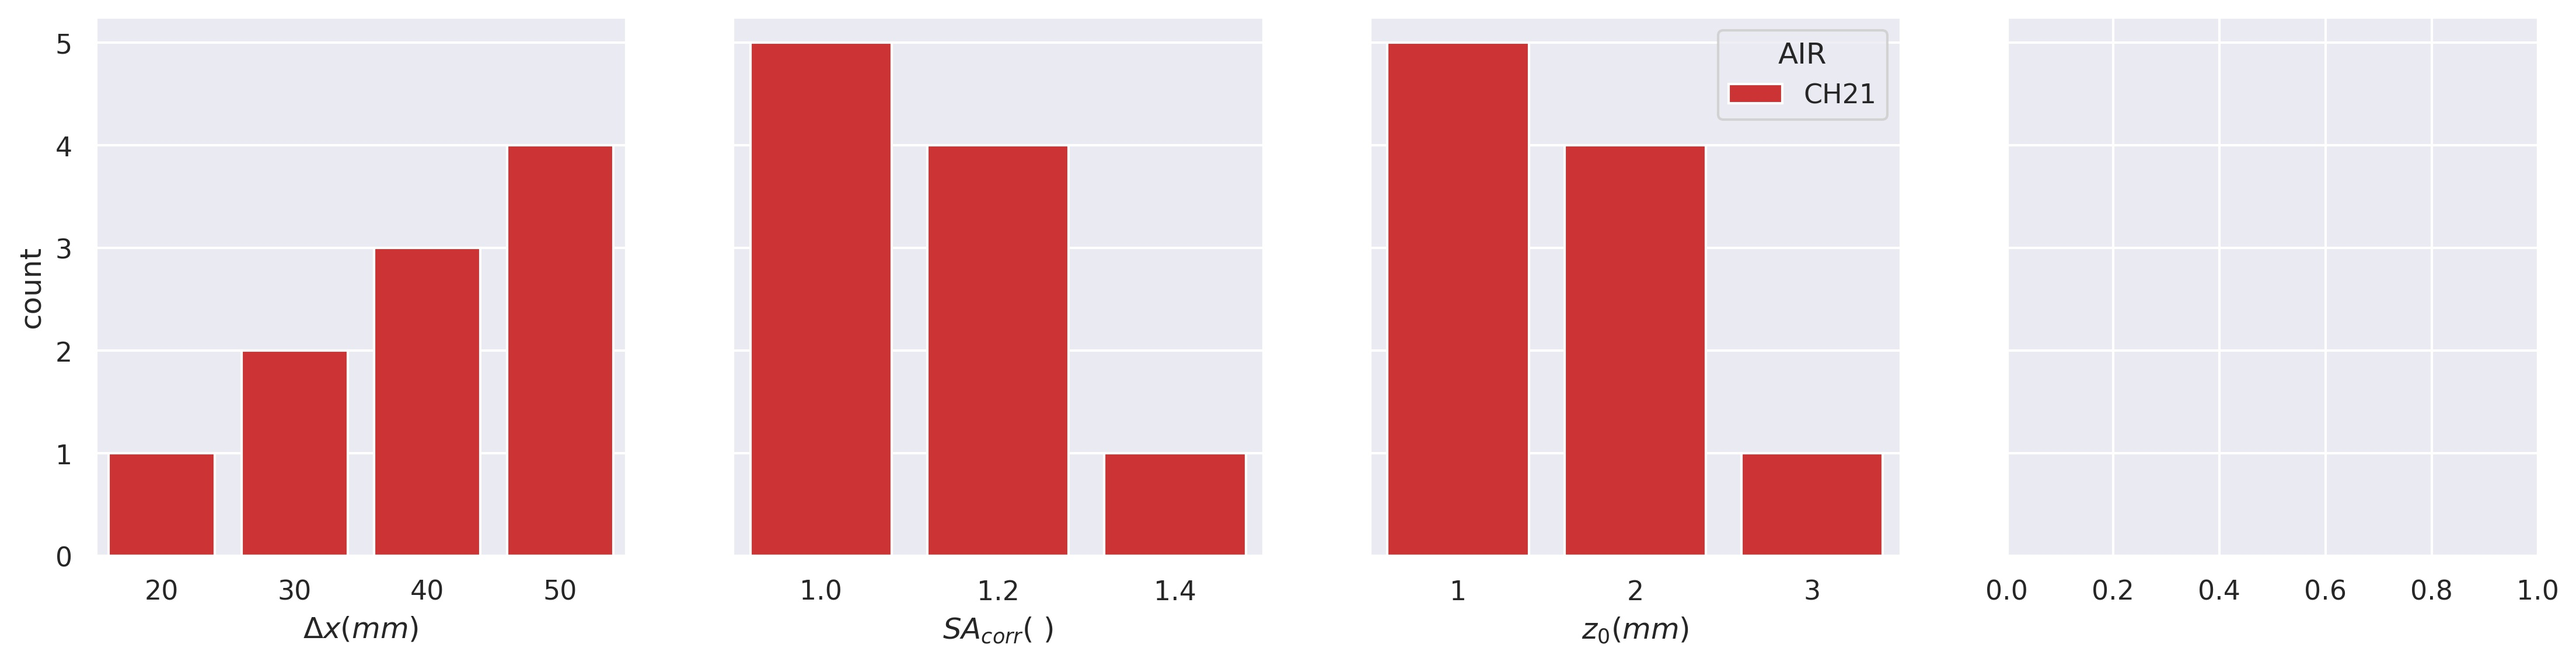
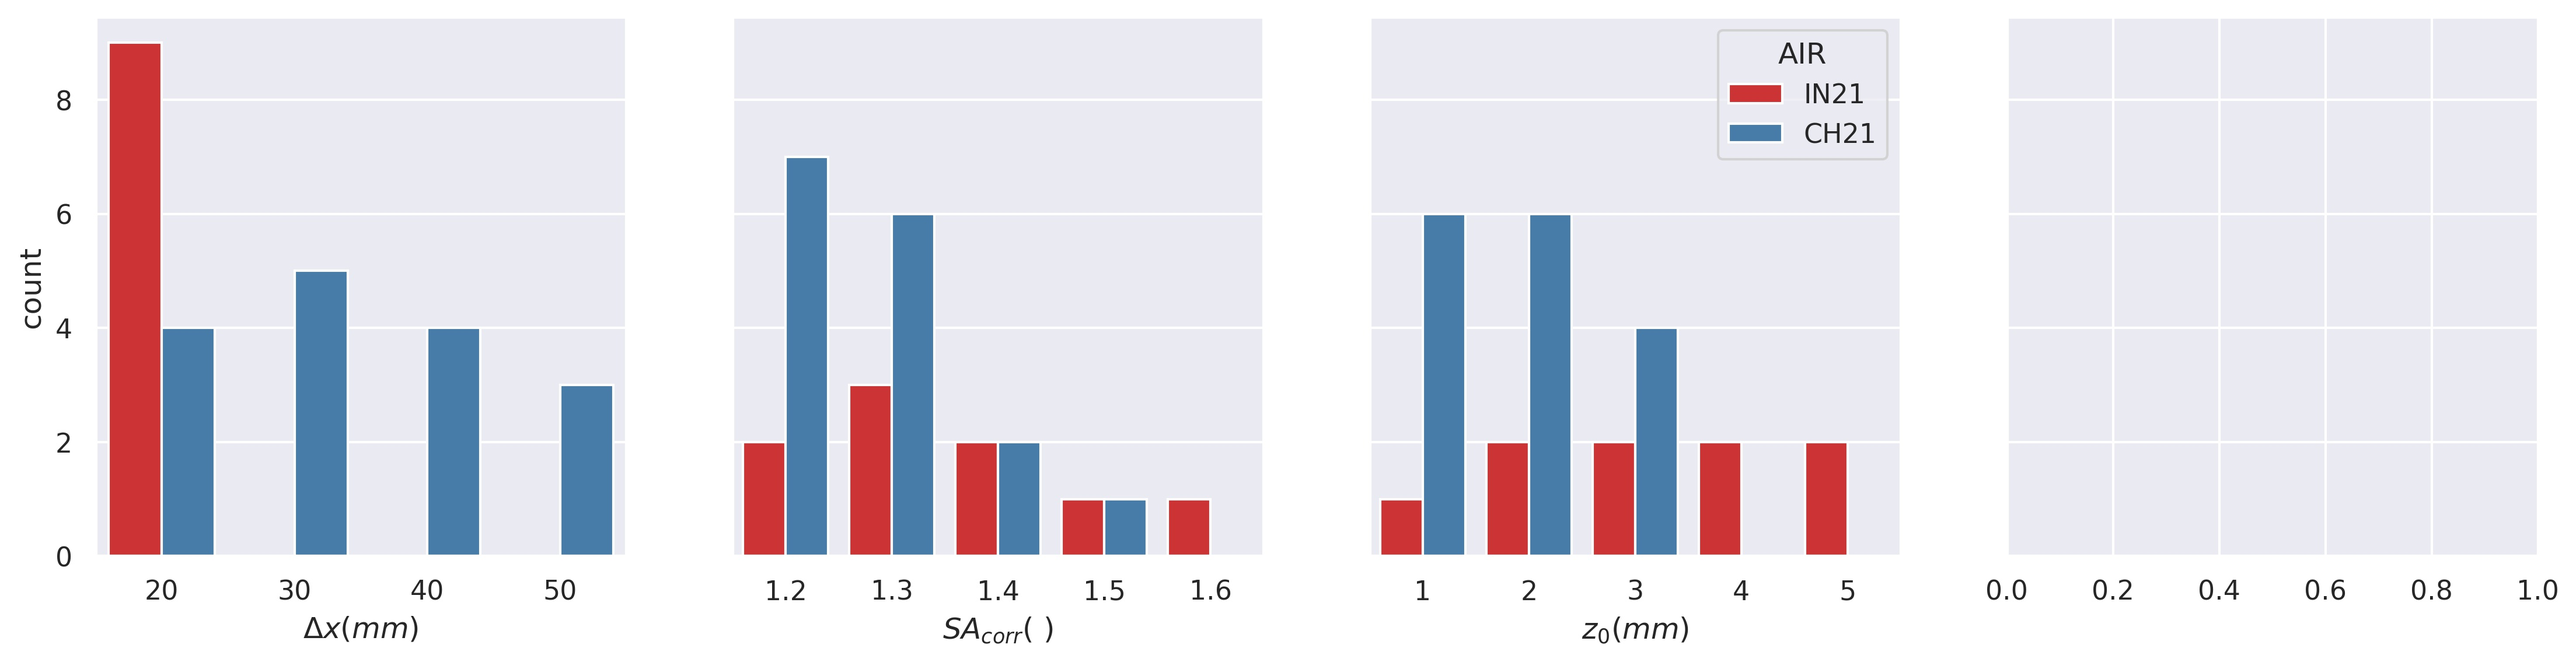
combine area and volume rmse

Changed region(s): [[0.5276, 0.0617, 0.7449, 0.8634], [0.2793, 0.0617, 0.4966, 0.8943], [0.031, 0.0617, 0.2483, 0.8634]]

diff --git a/src/utils/sensitivity-histplot.py b/src/utils/sensitivity-histplot.py
@@ -40,12 +40,13 @@ if __name__ == "__main__":
         logger=logger,
     )
 
-    # locations = ["gangles21", "guttannen21"]
+    locations = ["gangles21", "guttannen21"]
     # locations = ["guttannen21", "guttannen20"]
-    locations = ["guttannen21"]
+    # locations = ["guttannen21"]
     # location = "guttannen21"
 
     params = ['DX', 'SA_corr', 'Z']
+    # params = ['DX', 'SA_corr']
 
     # Creating an empty Dataframe with column names only
     dfx = pd.DataFrame(columns=params)
@@ -67,8 +68,8 @@ if __name__ == "__main__":
         df = df.set_index('rmse').sort_index().reset_index()
         df['params'] = df['params'].apply(literal_eval)
 
-        # num_selected = int(0.1 * df.shape[0])
-        num_selected = 10
+        num_selected = int(0.1 * df.shape[0])
+        # num_selected = 10
         num_total = df.shape[0]
         print()
         print("\tSelected %s out of %s" % (num_selected, num_total))
@@ -83,7 +84,7 @@ if __name__ == "__main__":
             print("\t%s from %s upto %s with percentage %s" % (col, df[col].min(), df[col].max(),
                 df[col].value_counts(normalize=True)))
 
-        # df = df.loc[df.SA_corr == 1.2]
+        df = df.loc[df.SA_corr >= 1.2]
         df['AIR'] = get_parameter_metadata(location)['shortname']
         dfx = dfx.append(df, ignore_index = True)
 
@@ -107,6 +108,8 @@ if __name__ == "__main__":
         v = get_parameter_metadata(param_name)
         label = v['latex'] + v['units']
         ax[i].set_xlabel(label)
+        # ax[i].set_xlim(v['ylim'])
+        # ax[i].set_xticks(np.arange(v['ylim'][0], v['ylim'][1], v['step']))
         if i != 0:
             ax[i].set_ylabel('')
         if i != len(tuned_params) - 1:

diff --git a/src/utils/validate.py b/src/utils/validate.py
@@ -47,9 +47,11 @@ def calculate(process_name,location, tasks, X, y, results, results_list, kind):
 
             # Fit new parameter
             clf.fit(X,y)
-            y_pred = clf.predict(X)
-            rmse = mean_squared_error(y_pred,y, squared=False)
             # diff = clf.predict_survival()
+            y_pred, x_pred = clf.predict_sa_v(X)
+            rmse1 = mean_squared_error(y_pred,y, squared=False)
+            rmse2 = mean_squared_error(x_pred,x, squared=False)
+            rmse = np.sqrt(rmse1**2+rmse2**2)
 
             # Compute result and mimic a long-running task
             compute = rmse
@@ -96,7 +98,7 @@ if __name__ == "__main__":
         df_c = df_c[1:]
 
         df_c["Where"] = location
-        obs.extend(df_c.reset_index()[["Where", 'When', 'DroneV']].values.tolist())
+        obs.extend(df_c.reset_index()[["Where", 'When', 'DroneV', 'Area']].values.tolist())
 
     else:
         if location != 'gangles21':
@@ -109,6 +111,7 @@ if __name__ == "__main__":
 
     X = [[a[0], a[1]] for a in obs]
     y = [a[2] for a in obs]
+    x = [a[3] for a in obs]
 
     # if location == 'gangles21':
     #     params = ['IE', 'A_I', 'Z', 'T_F', 'DX']

diff --git a/src/utils/cv.py b/src/utils/cv.py
@@ -133,6 +133,28 @@ class CV_Icestupa(BaseEstimator,Icestupa):
 
         return self.diff
 
+    def predict_sa_v(self):
+        y_pred = []
+        x_pred = []
+        ctr = 0
+        for x in X:
+            if self.kind == 'volume':
+                if (self.df[self.df.When == x[1]].shape[0]): 
+                    y_pred.append(self.df.loc[self.df.When == x[1], "iceV"].values[0])
+                    x_pred.append(self.df.loc[self.df.When == x[1], "SA"].values[0])
+                else:
+                    y_pred.append((1 - (self.total_hours - self.duration)/self.total_hours) * self.V_dome)
+                    x_pred.append((1 - (self.total_hours - self.duration)/self.total_hours) * math.pi * self.r_F
+                        **2)
+            if self.kind == 'temp':
+                if (self.df[self.df.When == x[1]].shape[0]): 
+                    y_pred.append(self.df.loc[self.df.When == x[1], "T_s"].values[0])
+                else:
+                    y_pred.append((1 - (self.total_hours - self.duration)/self.total_hours))
+            ctr +=1
+
+        return y_pred, x_pred
+
 
 if __name__ == "__main__":
     # Main logger
